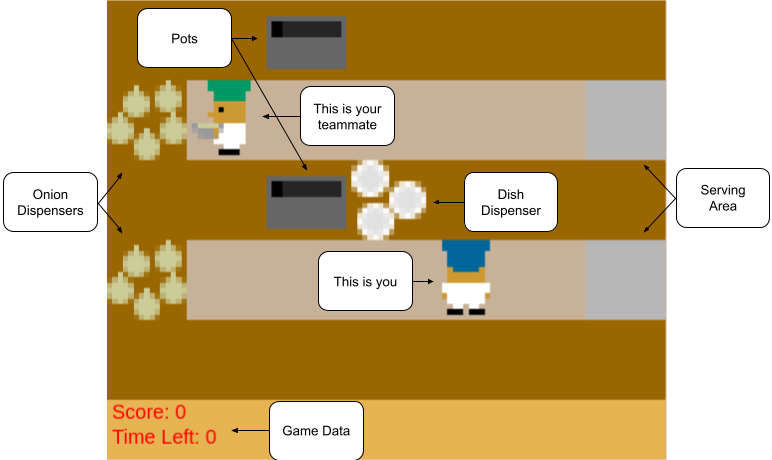
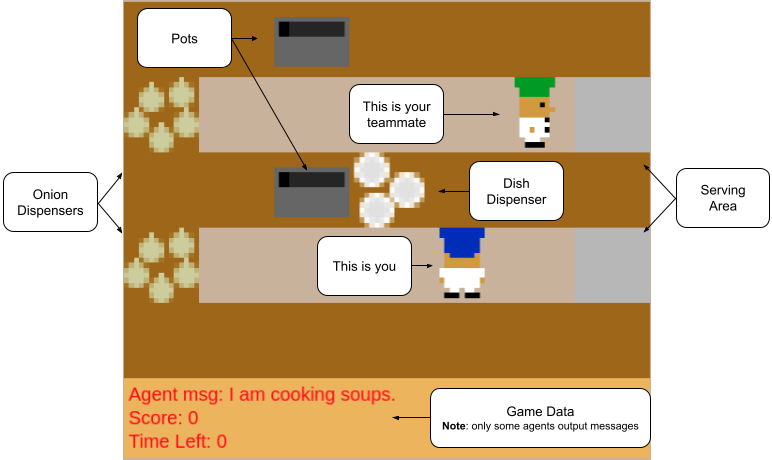
should be ready for pilot study

Changed region(s): [[0.1244, 0.0, 0.8705, 1.0]]

diff --git a/server/graphics/overcooked_graphics_v2.2.js b/server/graphics/overcooked_graphics_v2.2.js
@@ -24,7 +24,7 @@ var scene_config = {
     show_post_cook_time : false,
     cook_time : 20,
     assets_loc : "./static/assets/",
-    hud_size : 60
+    hud_size : 85
 };
 
 var game_config = {
@@ -97,15 +97,18 @@ class OvercookedScene extends Phaser.Scene {
             potential : config.start_state.potential,
             score : config.start_state.score,
             time : config.start_state.time_left,
+            agent_msg : ' ',
             bonus_orders : config.start_state.state.bonus_orders,
             all_orders : config.start_state.state.all_orders
         }
     }
 
     set_state(state) {
+        console.log(this.hud_data);
         this.hud_data.potential = state.potential;
         this.hud_data.score = state.score;
         this.hud_data.time = Math.round(state.time_left);
+        this.hud_data.agent_msg = state.agent_msg;
         this.hud_data.bonus_orders = state.state.bonus_orders;
         this.hud_data.all_orders = state.state.all_orders;
         this.state = state.state;
@@ -359,6 +362,9 @@ class OvercookedScene extends Phaser.Scene {
         if (typeof(hud_data.score) !== 'undefined') {
             this._drawScore(hud_data.score, sprites, board_height);
         }
+        if (typeof(hud_data.agent_msg) !== 'undefined') {
+            this._drawAgentMsg(hud_data.agent_msg, sprites, board_height);
+        }
         if (typeof(hud_data.potential) !== 'undefined' && hud_data.potential !== null) {
             console.log(hud_data.potential)
             this._drawPotential(hud_data.potential, sprites, board_height);
@@ -445,6 +451,23 @@ class OvercookedScene extends Phaser.Scene {
         }
     }
 
+    _drawAgentMsg(agent_msg, sprites, board_height) {
+        agent_msg = "Agent msg: "+agent_msg;
+        if (typeof(sprites['agent_msg']) !== 'undefined') {
+            sprites['agent_msg'].setText(agent_msg);
+        }
+        else {
+            sprites['agent_msg'] = this.add.text(
+                5, board_height + 5, agent_msg,
+                {
+                    font: "20px Arial",
+                    fill: "red",
+                    align: "left"
+                }
+            )
+        }
+    }
+
     _drawScore(score, sprites, board_height) {
         score = "Score: "+score;
         if (typeof(sprites['score']) !== 'undefined') {
@@ -452,7 +475,7 @@ class OvercookedScene extends Phaser.Scene {
         }
         else {
             sprites['score'] = this.add.text(
-                5, board_height, score,
+                5, board_height + 30, score,
                 {
                     font: "20px Arial",
                     fill: "red",
@@ -486,7 +509,7 @@ class OvercookedScene extends Phaser.Scene {
         }
         else {
             sprites['time_left'] = this.add.text(
-                5, board_height + 25, time_left,
+                5, board_height + 55, time_left,
                 {
                     font: "20px Arial",
                     fill: "red",

diff --git a/server/static/js/agent_comp.js b/server/static/js/agent_comp.js
@@ -18,7 +18,7 @@ const shuffleArray = (array) => {
 
 var agents = [];
 var layouts = [];
-var human_color = 'grey';
+var human_color = 'blue';
 var agent_colors = {};
 var agent_layouts = null;
 
@@ -64,7 +64,7 @@ $(function() {
                 "playerZero" : "human",
                 "playerOne" : agent_layouts[round][0],
                 "layouts" : [agent_layouts[round][1]],
-                "gameTime" : 5,
+                "gameTime" : 80,
                 "randomized" : false
             },
             "game_name" : "overcooked"
@@ -72,7 +72,7 @@ $(function() {
         $('#next-round').hide();
         console.log("agent images should be hidden")
         $('#agents-imgs').hide();
-        setAgentColors({0: human_color, 1: agent_colors[agent_layouts[round][0]]},)
+        setAgentColors({0: human_color, 1: agent_colors[agent_layouts[round][0]]})
         // create (or join if it exists) new game
         socket.emit("create", data);
     });

diff --git a/server/game.py b/server/game.py
@@ -394,6 +394,7 @@ class OvercookedGame(Game):
         self.max_time = min(int(gameTime), MAX_GAME_TIME)
         self.npc_policies = {}
         self.npc_state_queues = {}
+        self.npc_prev_states = {}
         self.action_to_overcooked_action = {
             "STAY": Action.STAY,
             "UP": Direction.NORTH,
@@ -406,6 +407,7 @@ class OvercookedGame(Game):
         self.curr_tick = 0
         self.human_players = set()
         self.npc_players = set()
+        self.agent_msg = ' '
 
         if randomized:
             random.shuffle(self.layouts)
@@ -415,12 +417,14 @@ class OvercookedGame(Game):
             self.add_player(player_zero_id, idx=0, buff_size=1, is_human=False)
             self.npc_policies[player_zero_id] = self.get_policy(playerZero, idx=0)
             self.npc_state_queues[player_zero_id] = LifoQueue()
+            self.npc_prev_states[player_zero_id] = None
 
         if playerOne != 'human':
             player_one_id = playerOne + '_1'
             self.add_player(player_one_id, idx=1, buff_size=1, is_human=False)
             self.npc_policies[player_one_id] = self.get_policy(playerOne, idx=1)
             self.npc_state_queues[player_one_id] = LifoQueue()
+            self.npc_prev_states[player_one_id] = None
 
     def _curr_game_over(self):
         return time() - self.start_time >= self.max_time
@@ -449,11 +453,18 @@ class OvercookedGame(Game):
         print('NPC policy consumer', flush=True)
         queue = self.npc_state_queues[policy_id]
         policy = self.npc_policies[policy_id]
+        stale = 0
         while self._is_active:
+            stale += 1
             state = queue.get()
-            npc_action, _ = policy.action(state)
-            print(f'Action: {npc_action}', flush=True)
+            if state.players == self.npc_prev_states[policy_id] and stale < 3:
+                continue
+            self.npc_prev_states[policy_id] = state.players
+            npc_action, agent_msg = policy.action(state, deterministic=False)
+            if agent_msg != ' ':
+                self.agent_msg = agent_msg
             super(OvercookedGame, self).enqueue_action(policy_id, npc_action)
+            stale = 0
 
     def is_full(self):
         return self.num_players >= self.max_players
@@ -567,6 +578,7 @@ class OvercookedGame(Game):
         state_dict['state'] = self.state.to_dict()
         state_dict['score'] = self.score
         state_dict['time_left'] = max(self.max_time - (time() - self.start_time), 0)
+        state_dict['agent_msg'] = self.agent_msg
         return state_dict
 
     def to_json(self):
@@ -585,6 +597,7 @@ class OvercookedGame(Game):
                 print(f'Loaded agent: {agent}', flush=True)
                 return agent
             except Exception as e:
+                print('???', e, flush=True)
                 raise IOError(f"{fpath}, Error loading OAI Agent\n{e}")
         else:
             try:
@@ -779,7 +792,6 @@ class StayAI():
     """
     Always returns "stay" action. Used for debugging
     """
-
     def set_encoding_params(self, mdp, horizon):
         pass
 
@@ -833,6 +845,7 @@ class TutorialAI():
 
         # Deliver soup
         Action.INTERACT,
+        Action.INTERACT,
         Direction.EAST,
         Direction.EAST,
         Direction.EAST,
@@ -872,13 +885,13 @@ class TutorialAI():
         self.curr_phase = -1
         self.curr_tick = -1
 
-    def action(self, state):
+    def action(self, state, deterministic=False):
         self.curr_tick += 1
         if self.curr_phase == 0:
-            return self.COOK_SOUP_LOOP[self.curr_tick % len(self.COOK_SOUP_LOOP)], None
+            return self.COOK_SOUP_LOOP[self.curr_tick % len(self.COOK_SOUP_LOOP)], 'I am cooking soups.'
         elif self.curr_phase == 2:
-            return self.COOK_SOUP_COOP_LOOP[self.curr_tick % len(self.COOK_SOUP_COOP_LOOP)], None
-        return Action.STAY, None
+            return self.COOK_SOUP_COOP_LOOP[self.curr_tick % len(self.COOK_SOUP_COOP_LOOP)], 'I am cooking soups.'
+        return Action.STAY, 'I am cooking soups.'
 
     def reset(self):
         self.curr_tick = -1
